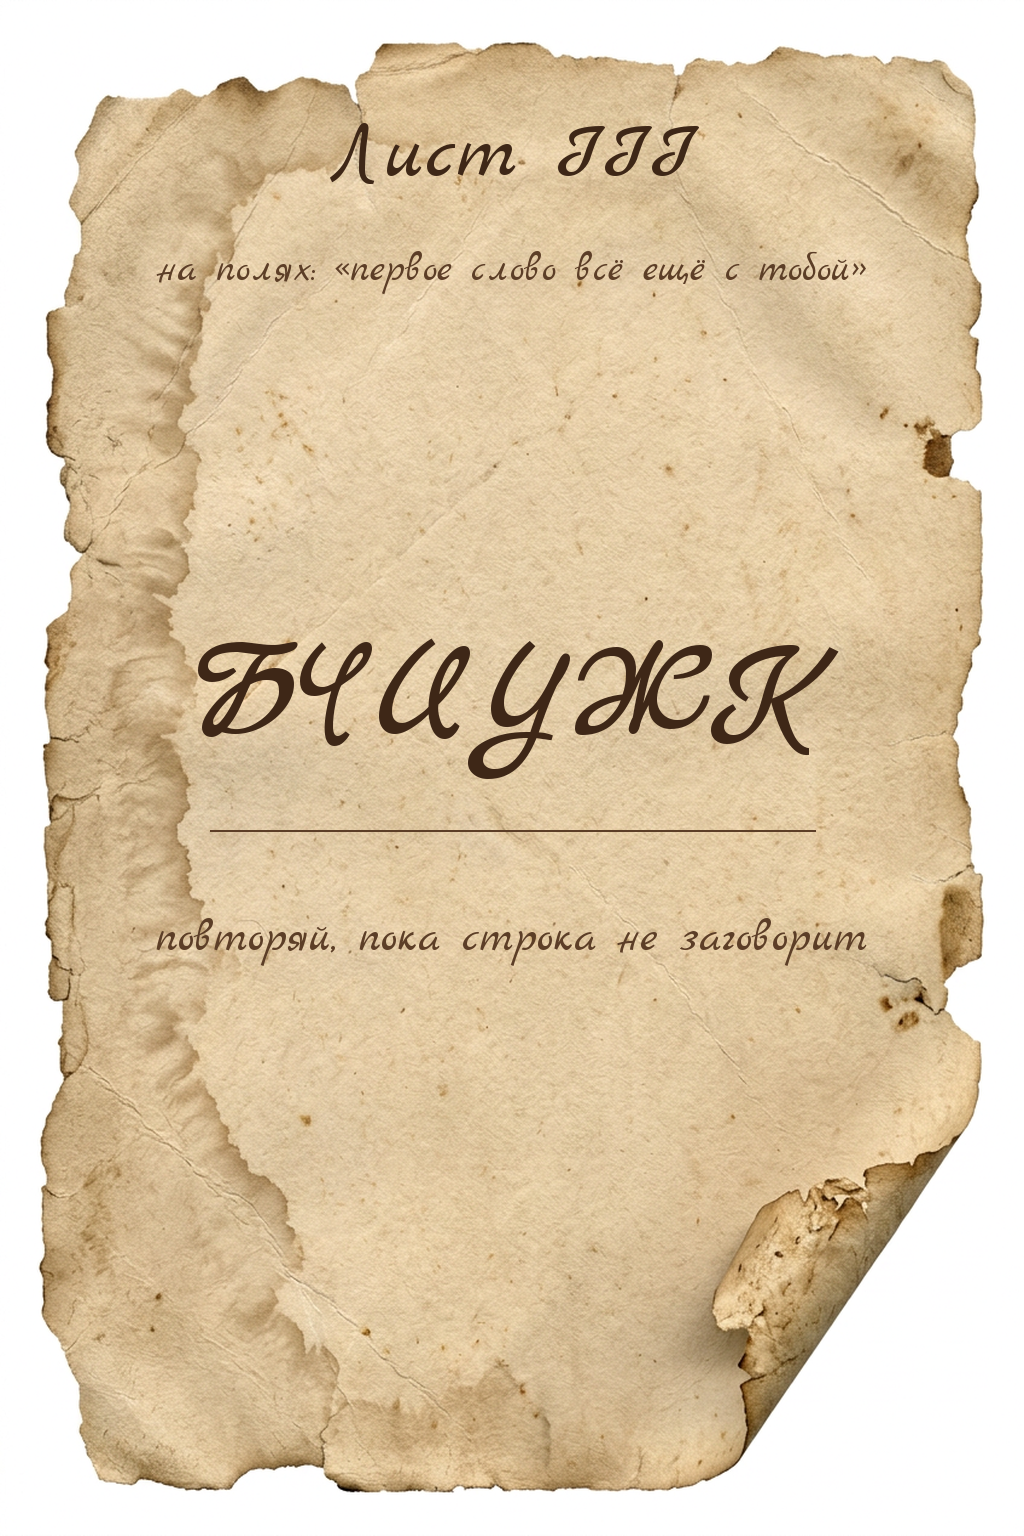
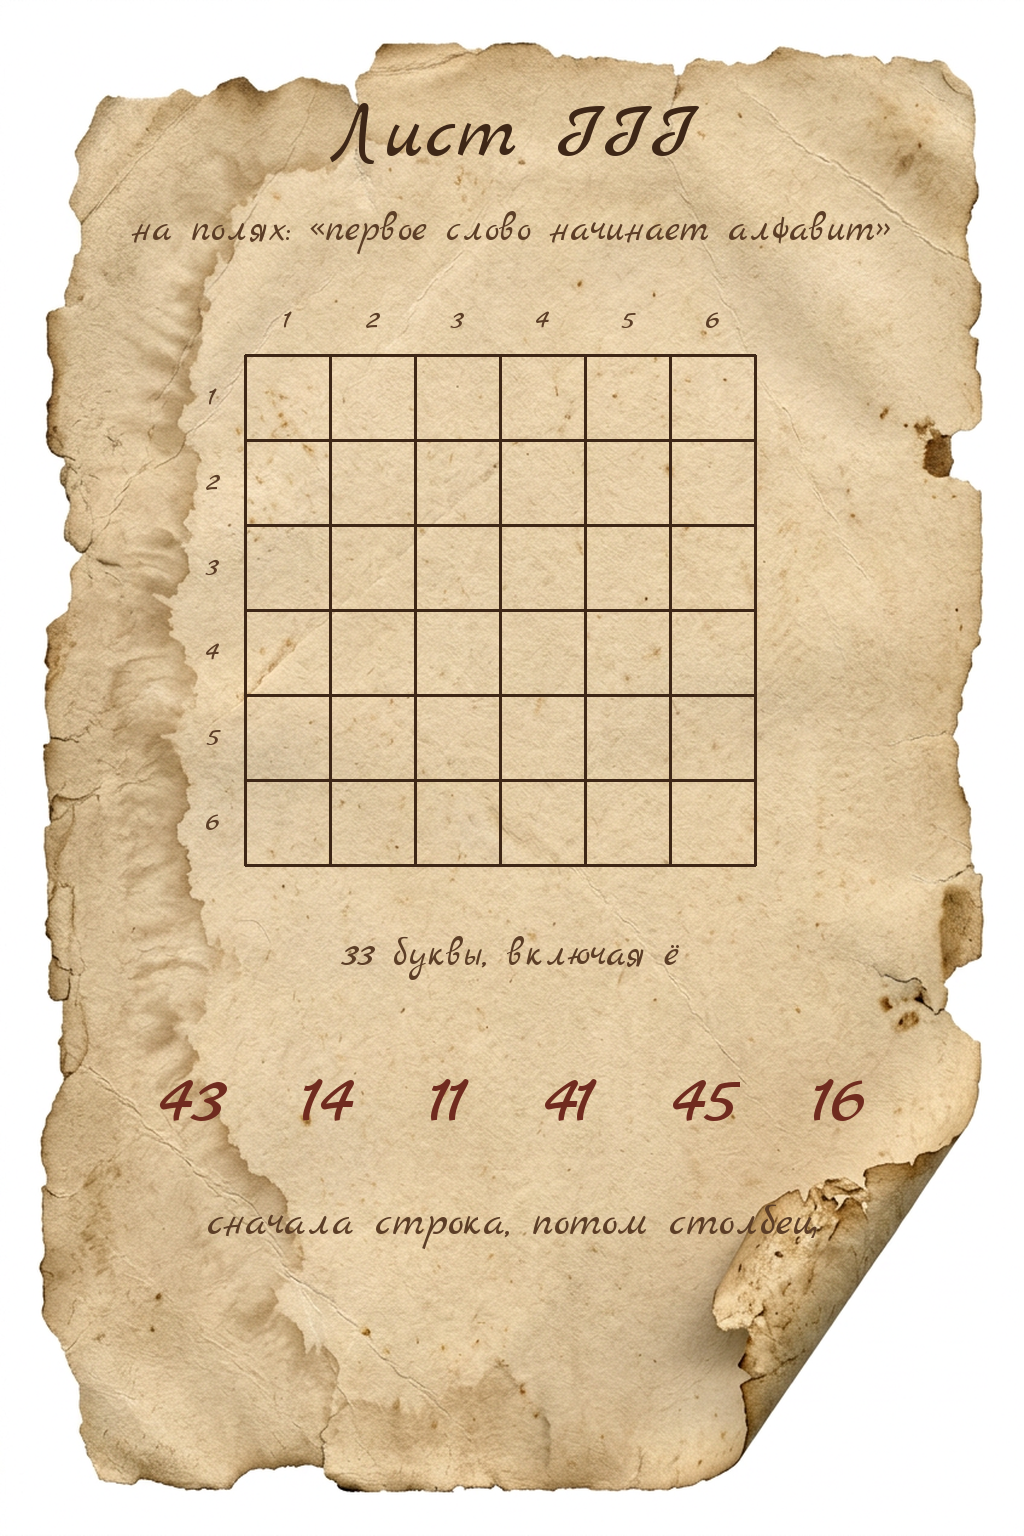
Replace the N3 Vigenere step with Polybius

diff --git a/bot/tools/make_quest_assets.py b/bot/tools/make_quest_assets.py
@@ -628,11 +628,11 @@ def make_n2():
 
 # ===================================================================== N3
 def make_n3():
-    """Четыре реалистичных листа: pigpen → rail → Vigenere → book cipher."""
+    """Четыре реалистичных листа: pigpen → rail → Polybius → book cipher."""
     word1 = "РЕШЕТКА"
     crib = "СИКССЕВЕН"
-    # Длинная фраза не позволяет угадать ВИЖНЕР как простую анаграмму.
-    rail_plain = "НАЗВАНИЕСЛЕДУЮЩЕГОШИФРАВИЖНЕР"
+    # Рельсы называют новый метод, не повторяя Виженера из N2.
+    rail_plain = "СЛЕДУЮЩИЙШИФРНОСИТИМЯПОЛИБИЯ"
     rail_c = rail_fence_enc(rail_plain, 3)
     rail_pattern = [index % 4 if index % 4 <= 2 else 4 - index % 4 for index in range(len(rail_plain))]
     rail_counts = [rail_pattern.count(rail) for rail in range(3)]
@@ -641,10 +641,17 @@ def make_n3():
     for count in rail_counts:
         rail_rows.append(rail_c[rail_cursor:rail_cursor + count])
         rail_cursor += count
-    assert rail_counts == [8, 14, 7]
+    assert rail_counts == [7, 14, 7]
     assert "".join(rail_rows) == rail_c
-    vig_plain = "СТРОФА"
-    vig_c = vigenere(vig_plain, word1)
+
+    polybius_plain = "СТРОФА"
+    polybius_alphabet = "".join(dict.fromkeys(word1 + RU_WITH_YO))
+    polybius_pairs = []
+    for letter in polybius_plain:
+        index = polybius_alphabet.index(letter)
+        polybius_pairs.append(f"{index // 6 + 1}{index % 6 + 1}")
+    assert len(polybius_alphabet) == 33
+    assert polybius_pairs == ["43", "14", "11", "41", "45", "16"]
     stanza = [
         "Серый иней трогает камни",        # 1.2 И
         "В саду свет едва дышит",          # 2.3 С
@@ -734,14 +741,32 @@ def make_n3():
     centered_text(draw, "три следа — одна строка", 1240, script_font(48), faded_ink)
     page2.save(OUT / "artifact_3b.png", optimize=True)
 
-    # Лист III: предыдущий ответ подсказывает способ, первый — повторяющееся слово.
+    # Лист III: квадрат Полибия 6×6 начинается с уникальных букв первого ответа.
     page3 = parchment_page(PARCHMENT_SOURCE_3)
     draw = ImageDraw.Draw(page3)
-    centered_text(draw, "Лист III", 105, script_font(82), ink)
-    centered_text(draw, "на полях: «первое слово всё ещё с тобой»", 245, script_font(40), faded_ink)
-    centered_text(draw, vig_c, 610, script_font(142), ink)
-    draw.line((210, 830, 815, 830), fill=faded_ink, width=2)
-    centered_text(draw, "повторяй, пока строка не заговорит", 910, script_font(46), faded_ink)
+    centered_text(draw, "Лист III", 85, script_font(82), ink)
+    centered_text(draw, "на полях: «первое слово начинает алфавит»", 205, script_font(40), faded_ink)
+
+    grid_x, grid_y, cell = 245, 355, 85
+    grid_size = cell * 6
+    label_font = script_font(32)
+    for index in range(7):
+        offset = index * cell
+        draw.line((grid_x + offset, grid_y, grid_x + offset, grid_y + grid_size), fill=ink, width=3)
+        draw.line((grid_x, grid_y + offset, grid_x + grid_size, grid_y + offset), fill=ink, width=3)
+    for index in range(6):
+        draw.text(
+            (grid_x + index * cell + cell / 2, grid_y - 35),
+            str(index + 1), fill=faded_ink, font=label_font, anchor="mm",
+        )
+        draw.text(
+            (grid_x - 32, grid_y + index * cell + cell / 2),
+            str(index + 1), fill=faded_ink, font=label_font, anchor="mm",
+        )
+
+    centered_text(draw, "33 буквы, включая ё", 930, script_font(40), faded_ink)
+    centered_text(draw, "  ".join(polybius_pairs), 1050, script_font(82), accent)
+    centered_text(draw, "сначала строка, потом столбец", 1195, script_font(44), faded_ink)
     page3.save(OUT / "artifact_3c.png", optimize=True)
 
     # Лист IV: книжные координаты остаются частью самого рукописного листа.
@@ -758,7 +783,7 @@ def make_n3():
 
     print(f"  N3  pigpen {word1}; crib {crib}")
     print(f"  N3  rail {rail_plain} → {rail_c}")
-    print(f"  N3  vig key={word1} {vig_plain} → {vig_c}")
+    print(f"  N3  polybius key={word1} {polybius_plain} → {' '.join(polybius_pairs)}")
     print(f"  N3  book {coordinates} → {''.join(got)}")
 
 

diff --git a/bot/test_n3_cards.py b/bot/test_n3_cards.py
@@ -58,16 +58,20 @@ class N3CardStyleTests(unittest.TestCase):
         self.assertNotIn("pos % 4", pigpen)
 
     def test_second_sheet_hides_the_answer_in_a_full_sentence(self):
-        plain = "НАЗВАНИЕСЛЕДУЮЩЕГОШИФРАВИЖНЕР"
+        plain = "СЛЕДУЮЩИЙШИФРНОСИТИМЯПОЛИБИЯ"
         cipher = rail_fence_enc(plain, 3)
-        self.assertEqual(cipher, "НАСУГФИРАВНЕЛДЮЕОИРВЖЕЗИЕЩШАН")
-        self.assertNotIn("ВИЖНЕР", cipher)
+        self.assertEqual(cipher, "СУЙРИЯИЛДЮИШФНСТМПЛБЯЕЩИОИОИ")
+        self.assertNotIn("ПОЛИБИЙ", cipher)
         self.assertEqual(rail_fence_dec(cipher, 3), plain)
 
         source = (REPO_ROOT / "bot" / "tools" / "make_quest_assets.py").read_text(encoding="utf-8")
         n3 = source.split("def make_n3():", 1)[1].split("# ===================================================================== N4", 1)[0]
         self.assertIn(f'rail_plain = "{plain}"', n3)
-        self.assertIn("assert rail_counts == [8, 14, 7]", n3)
+        self.assertIn("assert rail_counts == [7, 14, 7]", n3)
+        self.assertIn('polybius_pairs == ["43", "14", "11", "41", "45", "16"]', n3)
+        self.assertIn("первое слово начинает алфавит", n3)
+        self.assertNotIn("vigenere(", n3)
+        self.assertNotIn("ВИЖНЕР", n3)
 
     def test_reference_and_open_font_are_bundled(self):
         source_dir = REPO_ROOT / "bot" / "quest" / "source"

diff --git a/bot/test_nonspoiler_metadata.py b/bot/test_nonspoiler_metadata.py
@@ -62,7 +62,6 @@ class NonSpoilerMetadataTests(unittest.TestCase):
             "вычитай", "декодируй", "пиши", "разложи", "первые пять по порядку",
         ):
             self.assertNotIn(direct_instruction, combined)
-        self.assertIn("первое слово всё ещё с тобой", combined)
         self.assertIn("алфавит только с одной стороны", combined)
 
     def test_player_facing_assets_have_neutral_names(self):

diff --git a/bot/docs/QUEST_WALKTHROUGH.md b/bot/docs/QUEST_WALKTHROUGH.md
@@ -120,25 +120,37 @@ LSB и цветовые каналы **нет** (это уже вход из SIG
 повёрнуто на 45°.
 В бота: **РЕШЕТКА**
 
-### Ответ 2 → `ВИЖНЕР`
+### Ответ 2 → `ПОЛИБИЙ`
 
 Лист II, длинная фраза на трёх рельсах (rail fence). На листе рельсы уже
-разделены по длинам 8 + 14 + 7:
+разделены по длинам 7 + 14 + 7:
 
 ```text
-НАСУГФИР
-АВНЕЛДЮЕОИРВЖЕ
-ЗИЕЩШАН
+СУЙРИЯИ
+ЛДЮИШФНСТМПЛБЯ
+ЕЩИОИОИ
 ```
 
 Чтение зигзагом вниз-вверх даёт:
-`НАЗВАНИЕ СЛЕДУЮЩЕГО ШИФРА ВИЖНЕР`.
-В бота: **ВИЖНЕР**
+`СЛЕДУЮЩИЙ ШИФР НОСИТ ИМЯ ПОЛИБИЯ`.
+В бота: **ПОЛИБИЙ**
 
 ### Ответ 3 → `СТРОФА`
 
-Лист III. Виженер, ключ = **РЕШЕТКА**, шифр `БЧИУЖК`, алфавит 32 без Ё.
-На каждом шаге: позиция_шифра − позиция_ключа (по модулю 32).
+Лист III. Квадрат Полибия 6×6, алфавит из 33 русских букв с Ё. Ключевое
+слово **РЕШЕТКА** ставится в начало без повторов, затем дописывается остальной
+алфавит:
+
+```text
+Р Е Ш Т К А
+Б В Г Д Ё Ж
+З И Й Л М Н
+О П С У Ф Х
+Ц Ч Щ Ъ Ы Ь
+Э Ю Я
+```
+
+Пары `43 14 11 41 45 16` читаются как строка, затем столбец и дают **СТРОФА**.
 В бота: **СТРОФА**
 
 ### Ответ 4 → `ИСТИНА`
@@ -252,7 +264,7 @@ A1Z26: `32-14-31-32-08`
 | --- | --- |
 | N1 | СМОТРИ ВНУТРЬ → FFD9 → СЛОИ |
 | N2 | КЛЮЧ → ФИБО → ЛЬДА → СИГНАЛ |
-| N3 | РЕШЕТКА → ВИЖНЕР → СТРОФА → ИСТИНА |
+| N3 | РЕШЕТКА → ПОЛИБИЙ → СТРОФА → ИСТИНА |
 | N4 | ЛИНЗА → ТЕНЬ → КАДР |
 | N5 | МОДУЛЬ → ЧИСЛО → ЛОК → 2358 |
 | N6 | ЯНЮЯЗ → АТБАШ → ВИЖНЕР → ПОРТАЛ |
@@ -264,6 +276,6 @@ A1Z26: `32-14-31-32-08`
 ## Тебе как ведущему
 
 - Подсказки игроку: `/addhint @nick n`, он жмёт `/hint`.
-- Застрял: `/setstage <id> <stage_id>` (например `N3_vig`).
+- Застрял: `/setstage <@username или id> <stage_id>` (например `N3_gridinfo`).
 - Сброс: `/reset <id>`.
 - Соло-тест: `HOST_CONSOLE=1` в `.env` — письма ведущему и ручные апрувы идут через консоль.
